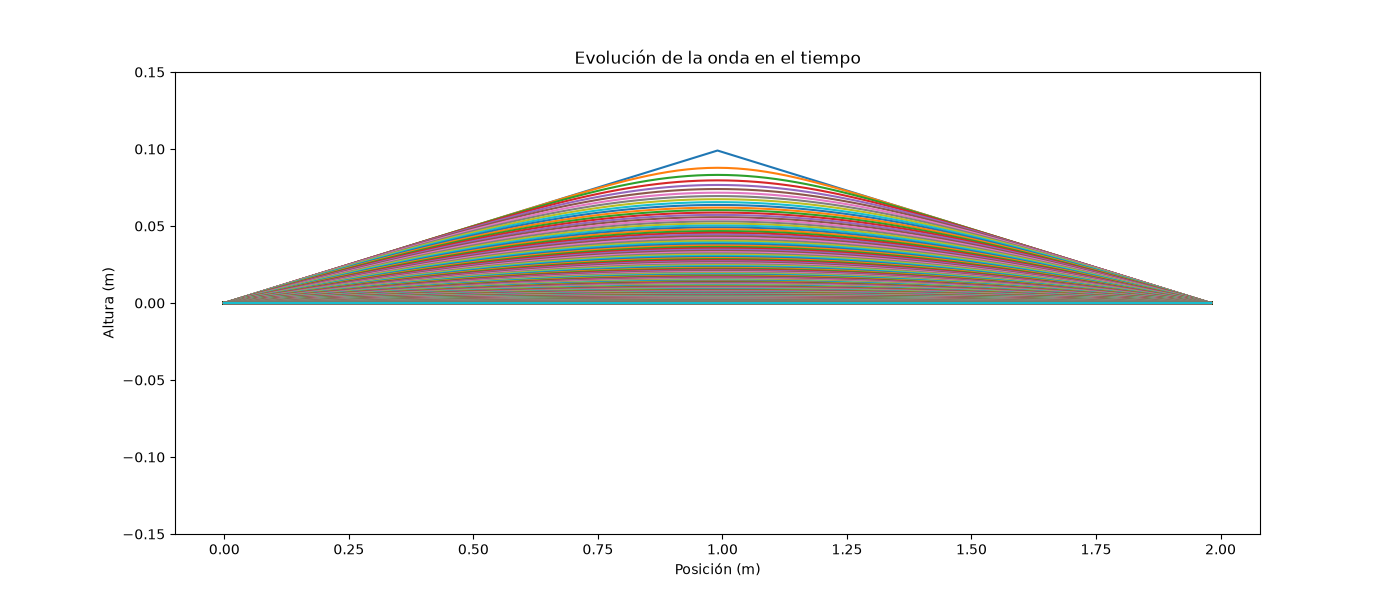
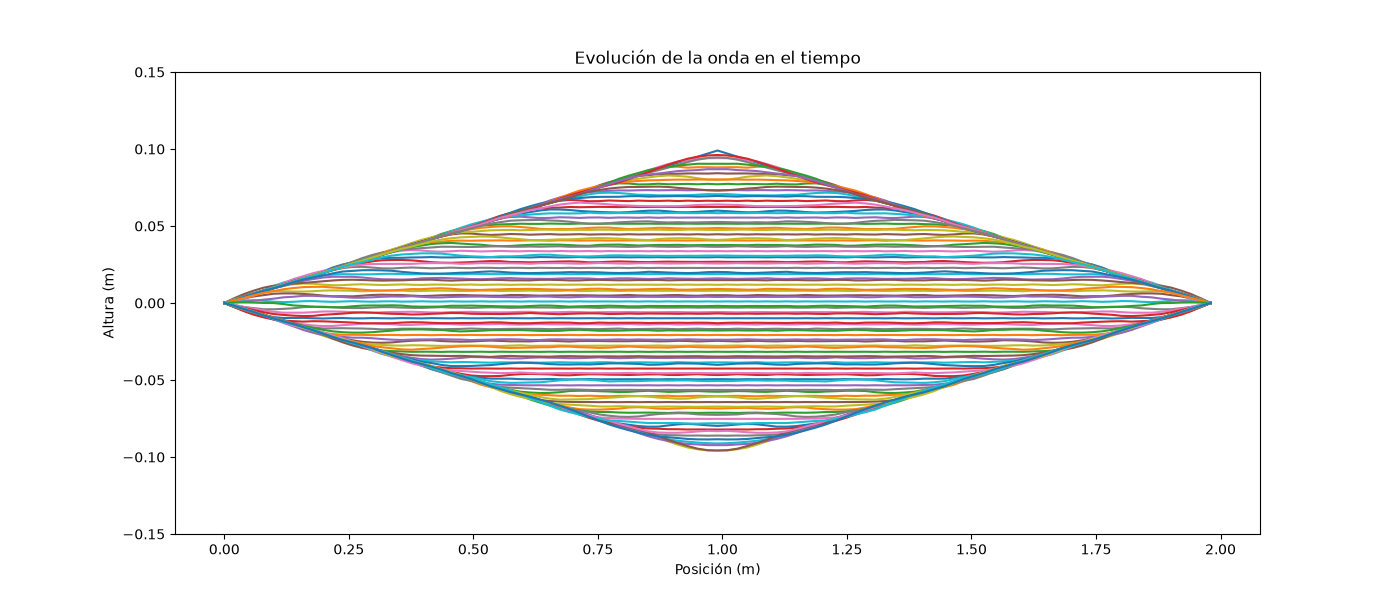
Fixed some random bug by my fault

Changed region(s): [[0.1536, 0.24, 0.86, 0.75]]

diff --git a/S8/S8C1/ParraCristian_S8C1_EDP.cpp b/S8/S8C1/ParraCristian_S8C1_EDP.cpp
@@ -3,14 +3,15 @@
 #include <array>
 #include <cmath>
 
-// No logré que la cuerda bajara a alturas negativas.
+// Actualicé el archivo de la entrega anterior, por alguna razón estaba actualizando
+// 'u_pas' y 'u_pres' dentro de un ciclo, por lo que no funcionaba correctamente.
 
 int main(){
     // Condiciones iniciales
     const int c = 300;
     const int L = 2;
     const int N = 101; // Cantidad de puntos
-    const int T = 100000; // Pasos temporales
+    const int T = 1000; // Pasos temporales
     double h = 0.1; // Altura inicial
     double v = 0.0; // Velocidad inicial | No la he aplicado
     double t_final = 0.1;
@@ -55,18 +56,17 @@ int main(){
         }
         
         // Guardar algunos arreglos "pasado" en 'EDP.dat'
-        if (k%100 == 0){
+        if (k%11 == 0){
             for(int p=0; p<(N-1);p++){
             outfile << u_pas[p] << "," ;
             }
 
             outfile << u_pas[N-1] << std::endl;
         }   
+
         // Actualizar los arreglos
-        for (int i = 0; i<N; i++){
-            u_pas = u_pres;
-            u_pres = u_fut;
-        }
+        u_pas = u_pres;
+        u_pres = u_fut;
     }
     
     // Se termina de escribir el archivo

diff --git a/S8/S8C1/PLOTS_CristianParra_S8C1_EDP.py b/S8/S8C1/PLOTS_CristianParra_S8C1_EDP.py
@@ -11,11 +11,13 @@ for i in range(len(Datos[0])):
 
 fig, ax = plt.subplots(figsize=(14,6))
 for i in range(len(Datos)):
-    ax.plot(tiempo, Datos[i, :])
+    if i%1== 0:
+        ax.plot(tiempo, Datos[i, :])
 
 plt.title("Evolución de la onda en el tiempo")
 plt.xlabel("Posición (m)")
 plt.ylabel("Altura (m)")
 plt.ylim(-0.15, 0.15)
+
 fig.savefig("PLOTS_CristianParra_S8C1_EDP.png")
 print(">>>Guardando la gráfica en 'PLOTS_CristianParra_S8C1_EDP.png'")
